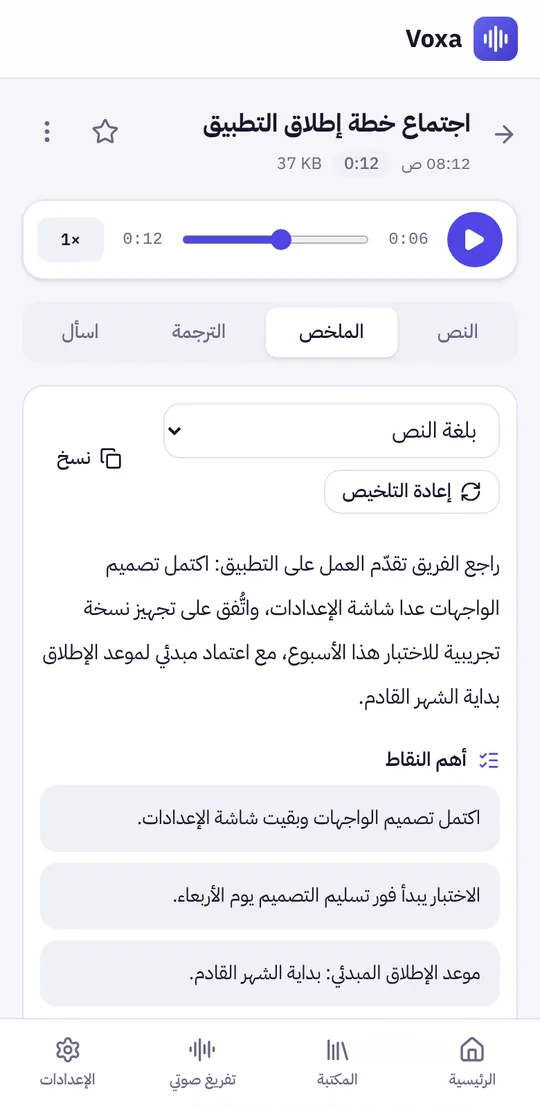
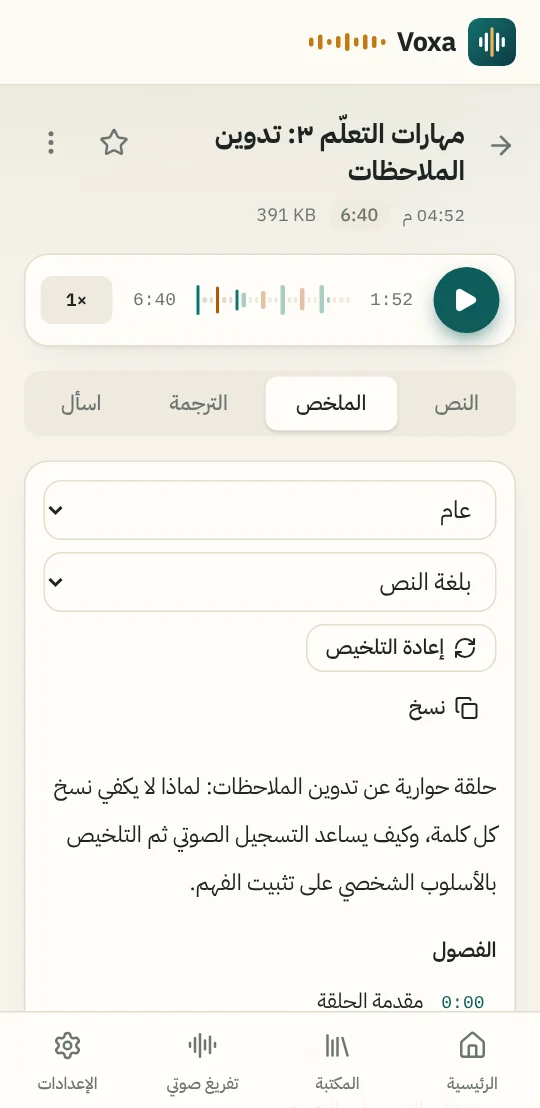
Voxa: new pictures for the new design; page text covers the features added since

diff --git a/content/apps/details/voxa.ts b/content/apps/details/voxa.ts
@@ -1,5 +1,6 @@
 // Voxa: page data for /apps/voxa/. First carried over from the app's original Arabic information
-// page; revised on 2026-11-20 against the app's source (sign-in, sync, cloud allowances, in-app updates).
+// page; revised on 2026-11-20 against the app's source (sign-in, sync, cloud allowances, in-app updates),
+// and on 2026-11-27 for the new design and the features added since (pictures retaken).
 import type { AppDetail } from "../types"
 
 export const detail: AppDetail = {
@@ -48,8 +49,8 @@ export const detail: AppDetail = {
     {
       title: { en: "Any audio or video", ar: "أي صوت أو فيديو" },
       body: {
-        en: "A file in any common format, several files at once, a microphone recording, a YouTube link, or a direct share from WhatsApp on Android.",
-        ar: "ملف بأي صيغة شائعة، عدة ملفات معاً، تسجيل بالميكروفون، رابط يوتيوب، أو مشاركة مباشرة من واتساب على أندرويد.",
+        en: "A file in any common format, several files at once, a microphone recording, a YouTube link or playlist, a podcast, an exported WhatsApp chat with its voice notes, or a direct share from WhatsApp on Android.",
+        ar: "ملف بأي صيغة شائعة، عدة ملفات معاً، تسجيل بالميكروفون، رابط يوتيوب أو قائمة تشغيل، بودكاست، محادثة واتساب مُصدَّرة بملاحظاتها الصوتية، أو مشاركة مباشرة من واتساب على أندرويد.",
       },
     },
     {
@@ -74,17 +75,31 @@ export const detail: AppDetail = {
       },
     },
     {
+      title: { en: "Keeps working with the screen off", ar: "يكمل العمل والشاشة مطفأة" },
+      body: {
+        en: "On Android, long transcriptions and recordings continue while the phone is locked. If the free daily quota runs out or the internet drops, the work waits and resumes by itself; on mobile data it asks before uploading audio.",
+        ar: "على أندرويد يستمر التفريغ الطويل والتسجيل والهاتف مقفل. وإذا نفدت الحصة اليومية المجانية أو انقطع الإنترنت ينتظر العمل ثم يستأنف وحده، وعلى بيانات الجوال يسألك قبل رفع الصوت.",
+      },
+    },
+    {
+      title: { en: "A careful editor", ar: "محرّر دقيق" },
+      body: {
+        en: "Follow the audio word by word, split and merge lines, replace across the text, mark lines and add notes. Polish and add diacritics without changing your words, keep a glossary of names and terms, and detect Quran verses to place them in their exact text with the surah and verse number.",
+        ar: "تابع الصوت كلمة بكلمة، قسّم الأسطر وادمجها، استبدل في النص كله، ظلّل الأسطر وأضف ملاحظات. نقّح النص وشكّله دون تغيير كلماتك، واحتفظ بقاموس للأسماء والمصطلحات، واكتشف الآيات القرآنية لتُكتب بنصها المضبوط مع اسم السورة ورقم الآية.",
+      },
+    },
+    {
       title: { en: "Export", ar: "تصدير" },
       body: {
-        en: "Word, PDF and TXT, plus SRT and VTT video subtitle files, with or without timestamps and speaker names.",
-        ar: "Word و PDF و TXT، وملفات ترجمة الفيديو SRT و VTT، مع التوقيت وأسماء المتحدثين أو بدونهما.",
+        en: "Word, PDF and TXT, SRT and VTT subtitle files, or the original video with Arabic subtitles printed on it, with or without timestamps and speaker names. A whole series can become one book.",
+        ar: "Word و PDF و TXT، وملفات الترجمة SRT و VTT، أو الفيديو الأصلي بترجمة عربية مطبوعة عليه، مع التوقيت وأسماء المتحدثين أو بدونهما. ويمكن أن تصير سلسلة كاملة كتاباً واحداً.",
       },
     },
     {
       title: { en: "Other tools", ar: "أدوات أخرى" },
       body: {
-        en: "Extract text from images and PDF files, turn text into speech, and convert audio and video with a converter that runs on your device.",
-        ar: "استخراج النص من الصور وملفات PDF، تحويل النص إلى كلام، ومحوّل للصوت والفيديو يعمل على جهازك.",
+        en: "Live transcription while you speak, ask questions across your whole library, study cards and quizzes from a lecture, an Arabic proofreader, questions about a PDF, text from images, text to speech (including long audiobooks), and an audio and video converter that runs on your device.",
+        ar: "تفريغ مباشر وأنت تتكلم، أسئلة على مكتبتك كلها، بطاقات مراجعة واختبارات من المحاضرة، مدقّق عربي، أسئلة على ملف PDF، استخراج النص من الصور، تحويل النص إلى كلام (حتى الكتب الصوتية الطويلة)، ومحوّل للصوت والفيديو يعمل على جهازك.",
       },
     },
     {
@@ -98,12 +113,12 @@ export const detail: AppDetail = {
   screenshots: [
     {
       src: "/images/apps/voxa/transcript.webp",
-      caption: { en: "The transcript: each line with its speaker and its time, and the line being played highlighted", ar: "النص: كل سطر باسم متحدثه وتوقيته، والسطر الجاري تشغيله مظلَّل" },
+      caption: { en: "The transcript: each line with its speaker and its time, and above it the recording drawn as a speech map coloured by speaker", ar: "النص: كل سطر باسم متحدثه وتوقيته، وفوقه التسجيل مرسوماً خريطةً للكلام ملوّنة بحسب المتحدث" },
       shape: "phone",
     },
     {
       src: "/images/apps/voxa/summary.webp",
-      caption: { en: "The summary tab: a short summary, then the key points", ar: "تبويب الملخص: خلاصة قصيرة ثم أهم النقاط" },
+      caption: { en: "The summary tab: a short summary, the key points and chapters that jump to the audio", ar: "تبويب الملخص: خلاصة قصيرة وأهم النقاط وفصول تنقلك إلى الصوت" },
       shape: "phone",
     },
     {
@@ -123,12 +138,12 @@ export const detail: AppDetail = {
     },
     {
       src: "/images/apps/voxa/export.webp",
-      caption: { en: "Export: Word, PDF, TXT, SRT or VTT, with or without timestamps and speaker names", ar: "التصدير: Word أو PDF أو TXT أو SRT أو VTT، مع التوقيت وأسماء المتحدثين أو بدونهما" },
+      caption: { en: "Export: Word, PDF, TXT, SRT, VTT or a video with printed subtitles", ar: "التصدير: Word أو PDF أو TXT أو SRT أو VTT أو فيديو بترجمة مطبوعة" },
       shape: "phone",
     },
     {
       src: "/images/apps/voxa/card.webp",
-      caption: { en: "The same transcript on a computer screen, with the tools in the side menu", ar: "النص نفسه على شاشة الحاسوب، والأدوات في القائمة الجانبية" },
+      caption: { en: "The same transcript on a computer screen: the word being heard is highlighted, and the tools are grouped in the side menu", ar: "النص نفسه على شاشة الحاسوب: الكلمة المسموعة الآن مظلَّلة، والأدوات مجمّعة في القائمة الجانبية" },
       shape: "wide",
     },
   ],
@@ -150,8 +165,8 @@ export const detail: AppDetail = {
     {
       title: { en: "Upload your first recording", ar: "ارفع أول تسجيل" },
       body: {
-        en: "In \"Transcription\", choose a file or record, and keep the app open until it finishes. On Android: in WhatsApp, press and hold the voice note, then Share, then Voxa.",
-        ar: "من «تفريغ صوتي» اختر ملفاً أو سجّل، وأبقِ التطبيق مفتوحاً حتى يكتمل. على أندرويد: من واتساب اضغط مطولاً على الملاحظة الصوتية ← مشاركة ← Voxa.",
+        en: "In \"Transcription\", choose a file or record. In the browser, keep the tab open until it finishes; the Android app carries on with the screen off. On Android: in WhatsApp, press and hold the voice note, then Share, then Voxa.",
+        ar: "من «تفريغ صوتي» اختر ملفاً أو سجّل. في المتصفح أبقِ الصفحة مفتوحة حتى يكتمل، أما تطبيق أندرويد فيكمل والشاشة مطفأة. على أندرويد: من واتساب اضغط مطولاً على الملاحظة الصوتية ← مشاركة ← Voxa.",
       },
     },
     {
@@ -226,8 +241,8 @@ export const detail: AppDetail = {
       ar: "كل شيء يعمل داخل المتصفح أو التطبيق، ومكتبتك محفوظة على جهازك حتى بلا حساب.",
     },
     {
-      en: "The pictures and video on this page show the real app with sample content for illustration.",
-      ar: "الصور والفيديو في هذه الصفحة تعرض التطبيق الحقيقي مع محتوى تجريبي للتوضيح.",
+      en: "The pictures and video on this page show the real app with sample content for illustration. The video was recorded before the app's new design.",
+      ar: "الصور والفيديو في هذه الصفحة تعرض التطبيق الحقيقي مع محتوى تجريبي للتوضيح. سُجّل الفيديو قبل التصميم الجديد للتطبيق.",
     },
   ],
   links: [
